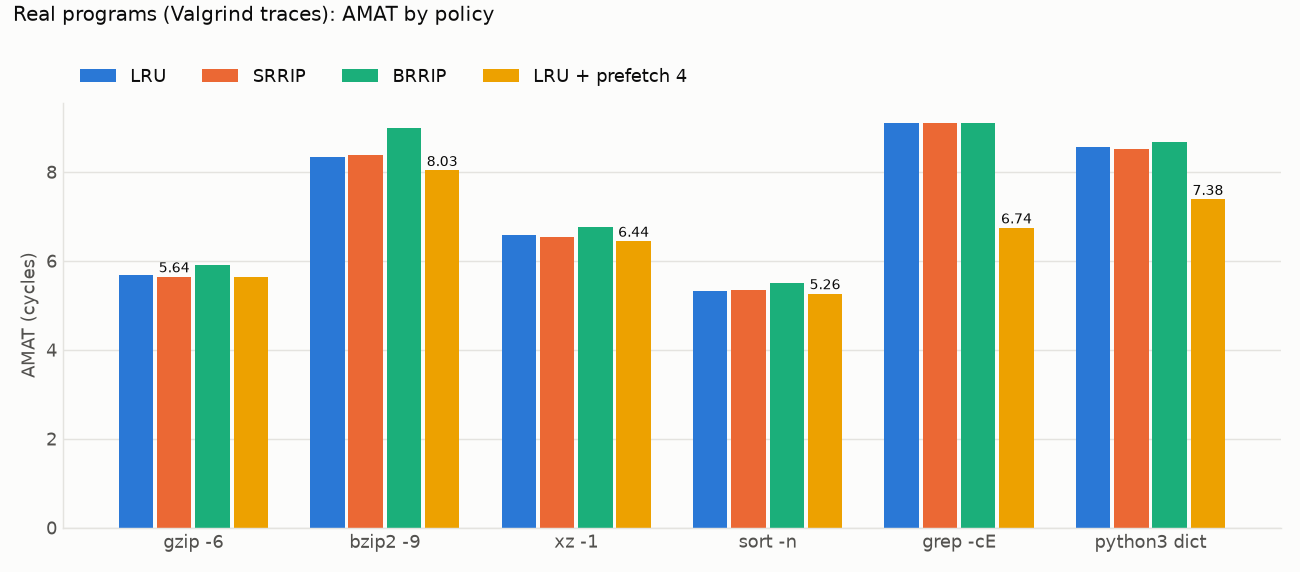
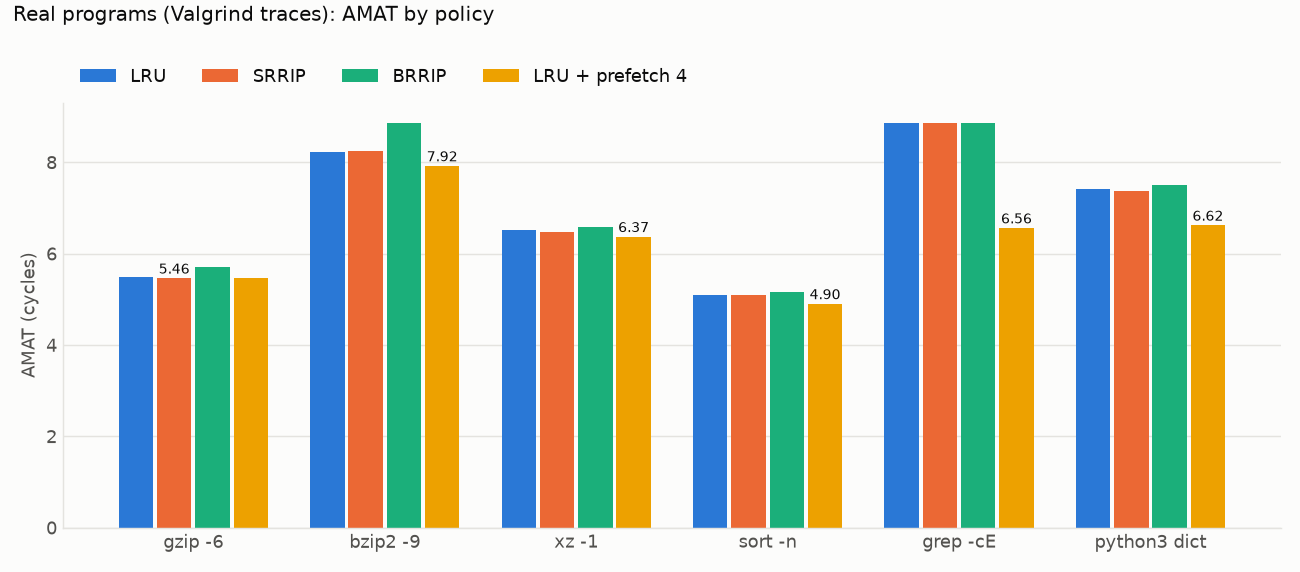
Re-capture real traces with Valgrind 3.27.1

diff --git a/docs/traces.md b/docs/traces.md
@@ -1,23 +1,25 @@
 # Real program traces
 
-`tools/real_traces.sh` runs six programs under Valgrind Lackey (`--trace-mem=yes`), converts loads and stores with `tools/lackey2trace.py` (instruction fetches dropped), and prints the table below. Traces (0.002–3 GB each) stay in `build/traces`, out of Git. Captured with Valgrind 3.26 on Ubuntu 26.04 (x86-64); inputs are 1 MB of `/usr/include` headers (gzip, bzip2, xz, grep) and 200,000 random integers (sort). Each trace includes the program's start-up.
+`tools/real_traces.sh` runs six programs under Valgrind Lackey (`--trace-mem=yes`), converts loads and stores with `tools/lackey2trace.py` (instruction fetches dropped), and prints the table below. Traces (0.002–3 GB each) stay in `build/traces`, out of Git. Captured with Valgrind 3.27.1 on Ubuntu 26.04 (x86-64); inputs are 1 MB of `/usr/include` headers (gzip, bzip2, xz, grep) and 200,000 random integers (sort). Each trace includes the program's start-up.
 
 L1 32 KB, L2 256 KB, both 8-way, 64 B lines, latencies 4/12/200. AMAT in cycles.
 
 | Program | Accesses | L1 miss | L2 miss | LRU | SRRIP | BRRIP | LRU + prefetch 4 |
 |---|---:|---:|---:|---:|---:|---:|---:|
-| `gzip -6` | 28.9 M | 12.95% | 0.40% | 5.68 | 5.64 | 5.90 | 5.64 |
-| `bzip2 -9` | 155.5 M | 3.52% | 43.53% | 8.34 | 8.37 | 8.99 | 8.03 |
-| `xz -1` | 77.3 M | 2.94% | 23.71% | 6.58 | 6.54 | 6.77 | 6.44 |
-| `sort -n` | 265.4 M | 0.82% | 53.80% | 5.32 | 5.34 | 5.49 | 5.26 |
-| `grep -cE` | 0.18 M | 2.92% | 67.60% | 9.09 | 9.09 | 9.10 | 6.74 |
-| `python3` dict | 145.4 M | 2.67% | 55.99% | 8.56 | 8.51 | 8.67 | 7.38 |
+| `gzip -6` | 31.5 M | 11.51% | 0.42% | 5.49 | 5.46 | 5.70 | 5.46 |
+| `bzip2 -9` | 162.5 M | 3.41% | 43.86% | 8.23 | 8.25 | 8.86 | 7.92 |
+| `xz -1` | 73.6 M | 3.00% | 22.30% | 6.51 | 6.47 | 6.58 | 6.37 |
+| `sort -n` | 270.3 M | 0.70% | 43.49% | 5.09 | 5.09 | 5.16 | 4.90 |
+| `grep -cE` | 0.19 M | 2.79% | 67.58% | 8.85 | 8.85 | 8.86 | 6.56 |
+| `python3` dict | 169.9 M | 2.04% | 53.70% | 7.42 | 7.38 | 7.50 | 6.62 |
 
 ![AMAT by policy on six real programs](img/amat.png)
 
-Prefetch (D=4) coverage: grep 55%, python 29%, gzip 29%, bzip2 9%, xz 7%, sort 4%.
+Prefetch (D=4) coverage: grep 56%, gzip 28%, python 26%, sort 19%, bzip2 9%, xz 7%.
 
-- **gzip**: its hash chains and window miss the 32 KB L1 often but fit in L2 (0.40% misses), so replacement and prefetching hardly matter.
+An earlier capture with Valgrind 3.26 gave the same conclusions. Its numbers differ by up to 17% in accesses (python), because the programs and libraries on the host were updated in between, so the two captures are not a Valgrind comparison.
+
+- **gzip**: its hash chains and window miss the 32 KB L1 often but fit in L2 (0.42% misses), so replacement and prefetching hardly matter.
 - **SRRIP** stays within 0.05 cycles of LRU on every program, so these traces have little of the scan-over-hot-set pattern it protects against.
-- **BRRIP** loses on every program. Inserting at "distant" evicts new lines before their reuse (gzip L1 misses 12.95% → 14.93%, xz 2.94% → 3.77%). Real designs only use it inside DRRIP, which duels BRRIP against SRRIP per set.
-- **Prefetching** pays where the misses are a sequential scan: grep's input buffer (L2 misses 67.60% → 30.80%) and python (55.99% → 39.88%). bzip2's suffix sorting and sort's merges touch memory in data-dependent order, so a single stride stream finds little.
+- **BRRIP** loses on every program. Inserting at "distant" evicts new lines before their reuse (gzip L1 misses 11.51% → 13.31%, xz 3.00% → 3.09%). Real designs only use it inside DRRIP, which duels BRRIP against SRRIP per set.
+- **Prefetching** pays where the misses are a sequential scan: grep's input buffer (L2 misses 67.58% → 29.87%) and python (53.70% → 39.86%). sort's merges stream through runs, so it covers a fifth of its misses; bzip2's suffix sorting and xz's match finder touch memory in data-dependent order, so a single stride stream finds little.
